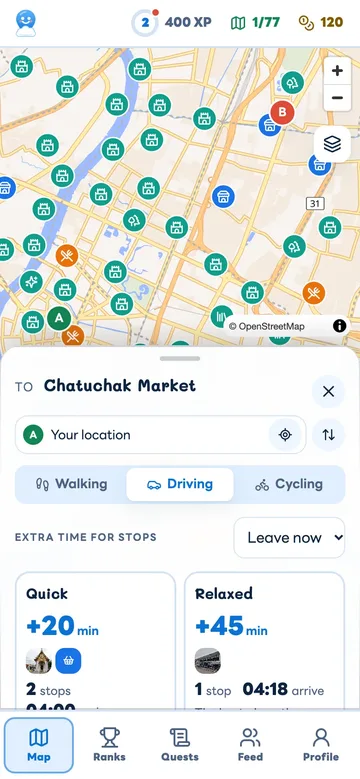
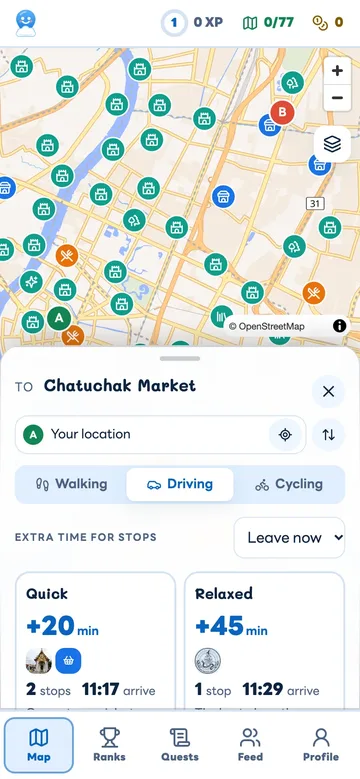
fix: consumer round 2 (planner usual hours, night hint, photo URLs, layout, demo city)
- plan-route: places without listed hours get the usual hours for their kind, so a night plan
  doesn't send people to temples at 04:00; traveller/owner photo paths become full URLs and
  hidden photos are skipped
- local_spotlight skips hidden photos (079); the feed resolves storage paths via photoSrc
- Choose: 'most places are closed at this hour' hint with Leave at 08:00
- mobile sheet pulled full covers the map buttons; landing bar goes solid on scroll
- odds table fits 390 px; stat labels left-aligned; shop set tiles show kind and fit PASSPORT
- demo mode remembers its city: 'my location' never jumps 500 km to real GPS
- Thumb falls back to the kind icon when a photo fails; stop names get two lines
- README: partner pricing, demo-screens note, opening-hours wording; landing hero reshot at daytime

diff --git a/web/src/styles/app.css b/web/src/styles/app.css
@@ -563,7 +563,7 @@ table.stats th, table.stats td { padding: 6px 8px; border-bottom: 1px solid var(
 .nav-eta b { font: 800 var(--fs-display)/var(--lh-display) var(--font-data); color: var(--good); }
 .nav-bottom .row { justify-content: space-between; }
 .nav-bottom .icon-btn.on { background: var(--brand-soft); }
-.nav-bottom .nav-avoid { justify-content: flex-start; gap: 14px; }
+.nav-bottom .nav-avoid { justify-content: flex-start; gap: 6px; }
 .nav-me { width: 22px; height: 22px; border-radius: 50%; background: #2f7bf5; border: 4px solid #fff; box-shadow: 0 0 0 8px rgb(47 123 245 / .25); }
 
 /* ---------- map layers (night map, offline maps) ---------- */
@@ -585,7 +585,7 @@ table.stats th, table.stats td { padding: 6px 8px; border-bottom: 1px solid var(
   .sheet { position: absolute; left: 0; right: 0; bottom: 0; margin: 0; border-radius: 22px 22px 0 0; box-shadow: 0 -8px 28px rgb(0 0 0 / .18);
     transition: height .28s cubic-bezier(.2, .8, .2, 1); height: 30%; }
   .sheet.snap-half { height: 55%; }
-  .sheet.snap-full { height: 92%; }
+  .sheet.snap-full { height: 92%; z-index: 7; }   /* pulled up, it covers the map's buttons and banners instead of sitting under them */
   .sheet.dragging { transition: none; }
   .sheet-grab { touch-action: none; padding-top: 6px; padding-inline: 16px; cursor: grab; }
   .sheet-handle { display: block; justify-self: center; width: 44px; height: 18px; border: 0; padding: 0; background: none; position: relative; }
@@ -841,6 +841,9 @@ img.thumb, span.thumb { flex: none; border-radius: 10px; object-fit: cover; disp
 .set-items { list-style: none; margin: 0; padding: 0; display: grid; grid-template-columns: repeat(5, minmax(0, 1fr)); gap: 8px; }
 .set-items button { display: grid; gap: 4px; width: 100%; padding: 6px; border-radius: 12px; border: 0; background: rgb(255 255 255 / .9); color: #0e2440; font-size: var(--fs-micro); font-weight: 700; text-align: center; }
 .set-items .preview { height: 48px; }
+.set-items .preview.title-chip span { font-size: var(--fs-caption); line-height: 1.15; padding-inline: 4px; }   /* "Full-moon wanderer" fits the 48 px tile */
+.set-items .preview.cover-prev .cover-title { font-size: var(--fs-micro); letter-spacing: .06em; }   /* "PASSPORT" fits a 3-up phone tile */
+.set-items .tile-kind { letter-spacing: .03em; color: #4a5a72; }   /* tile is always light, in dark mode too */
 .set-buy { align-items: center; } .set-buy b { display: inline-flex; align-items: center; gap: 3px; font-size: var(--fs-headline); }
 .set-list { display: grid; gap: 10px; }
 .try-backdrop { z-index: 110; }
@@ -912,7 +915,7 @@ img.thumb, span.thumb { flex: none; border-radius: 10px; object-fit: cover; disp
 /* icon + number lead (title size) in the stat's colour, the same colours as the top bar; the label sits small in the top corner */
 .stat-strip b { display: inline-flex; align-items: center; gap: 6px; font: 800 var(--fs-title)/var(--lh-title) var(--font-data); color: var(--c); }
 .stat-strip b svg { flex: none; } .stat-strip b small { margin-left: -5px; align-self: flex-end; padding-bottom: 3px; }
-.stat-strip li > span:last-child { order: -1; justify-self: end; }
+.stat-strip li > span:last-child { order: -1; }   /* label above the number, both left-aligned */
 .stat-strip small { font-size: var(--fs-caption); font-weight: 700; color: var(--ink-2); }
 .stat-strip span { display: inline-flex; align-items: center; gap: 5px; font-size: var(--fs-caption); font-weight: 700; color: var(--ink-2); }
 .stat-strip .s-xp { --c: var(--brand); } .stat-strip .s-provinces { --c: var(--good); } .stat-strip .s-stamps { --c: var(--stamp); }
@@ -1387,10 +1390,19 @@ input[type="file"]::file-selector-button { font: 700 var(--fs-label)/1 var(--fon
 /* visual QA round (tester C) */
 .avatar.c-marigold { color: #2a1d00; }   /* a white letter on gold was 2.2:1 */
 .level-rewards > .btn.big { position: sticky; bottom: 0; box-shadow: 0 4px 0 var(--brand-edge), 0 -10px 18px 6px var(--card); }   /* the pick stays reachable on small phones */
-.odds { overflow-x: auto; } .odds table { min-width: 440px; }   /* the prize column doesn't shrink to one word per line on 320 px */
+.odds { overflow-x: auto; } .odds table { min-width: 300px; }   /* fits a 390 px phone; scrolls only below that, so the prize column never shrinks to one word per line */
 input[type="file"] { width: 100%; }
 .row.between > .eyebrow { margin: 0; }
 .shop-grid li.locked .tile-try { opacity: .6; filter: grayscale(.5); }
 :root[data-theme="dark"] .maplibregl-ctrl-attrib-button { filter: invert(1); }
 html.native .book-close { top: calc(14px + env(safe-area-inset-top, 0px)); }
 html.native .toast { top: calc(64px + env(safe-area-inset-top, 0px)); }
+
+/* navigation's Avoid tolls / highways / ferries: chips, not bare form checkboxes */
+.nav-avoid { gap: 6px; flex-wrap: wrap; }
+.nav-avoid .toggle { display: inline-flex; align-items: center; gap: 6px; border: 1px solid var(--line); background: var(--card); padding: 6px 12px;
+  border-radius: 10px; font-size: var(--fs-label); font-weight: 700; cursor: pointer; }
+.nav-avoid .toggle input { margin: 0; }
+.nav-avoid .toggle:has(input:checked) { border-color: var(--brand); background: var(--brand-soft); color: var(--brand); }
+/* a plan's stop names get two lines: "Sakon Nakhon Walking Street, Saturday & Sunday Nights" kept its "nights" cut off */
+.stop-rows .stop-text > b { white-space: normal; display: -webkit-box; -webkit-line-clamp: 2; -webkit-box-orient: vertical; overflow-wrap: anywhere; }

diff --git a/web/src/lib/demoGps.ts b/web/src/lib/demoGps.ts
@@ -3,7 +3,7 @@ import type { LatLng } from "./api";
 // Demo mode: the app's location is wherever you put it (directions' Demo button drives you to the next stop), so it can be
 // shown anywhere. It stands in for navigator.geolocation itself, so everything that reads the location (stops near
 // you, check-in, turn-by-turn) follows it without knowing. Check-ins made with it are marked demo on the server.
-const ON = "gm-demo", AT = "gm-demo-at";
+const ON = "gm-demo", AT = "gm-demo-at", HOME = "gm-demo-home";
 /** Demo-mode people have ids "demo-01".. and exist only on this device. */
 export const isDemoId = (id: string) => id.startsWith("demo-");
 export const SAKON: LatLng = { lat: 17.163, lng: 104.149 };   // Sakon Nakhon: the default map centre
@@ -12,6 +12,7 @@ const write = (k: string, v: unknown) => { try { localStorage.setItem(k, JSON.st
 
 let on = read<boolean>(ON, false);
 let at = read<LatLng>(AT, SAKON);
+let home = read<LatLng>(HOME, SAKON);   // the demo's city: where "my location" goes back to when you aren't really there
 const watchers = new Map<number, PositionCallback>();
 const listeners = new Set<() => void>();
 let nextId = 1e6;   // clear of the real watch ids
@@ -33,6 +34,14 @@ export function setDemo(value: boolean) {
   if (!value) try { localStorage.removeItem("gm-demo-bar-hidden"); } catch { /* nothing to show again */ }   // next time demo mode is on, its note shows again
   changed();
 }
+export const BANGKOK: LatLng = { lat: 13.7563, lng: 100.5018 };
+/** Demo mode in Bangkok, where the pretend community is (the welcome sheet and Settings). Reload after: read at start-up. */
+export function startDemo() {
+  home = BANGKOK; write(HOME, BANGKOK);
+  moveTo(BANGKOK);
+  setDemo(true);
+}
+
 /** Move yourself there; everything watching the location gets a fix straight away. */
 export function moveTo(p: LatLng) {
   at = p; write(AT, p);
@@ -41,13 +50,21 @@ export function moveTo(p: LatLng) {
   changed();
 }
 
+// rough km, plenty for "is it the same city"
+const km = (a: LatLng, b: LatLng) => Math.hypot(a.lat - b.lat, (a.lng - b.lng) * Math.cos(a.lat * Math.PI / 180)) * 111;
+
 /**
- * "Use my location" (a trip's start): in demo mode the demo position first goes back to where you really are, so a new
- * trip starts from you, not from wherever the last demo drive ended. No real fix (blocked, desktop): the demo spot stays.
+ * "Use my location" (a trip's start): in demo mode a new trip starts from you, not from wherever the last demo drive
+ * ended. "You" is where you really are when that's in the demo's city, else the demo's city itself: demoing Bangkok from
+ * Sakon Nakhon used to start every trip 500 km away. No real fix (blocked, desktop): the demo spot stays.
  */
 export function myLocation(ok: PositionCallback, fail: PositionErrorCallback, opts?: PositionOptions) {
   if (!on || !realGet) return navigator.geolocation.getCurrentPosition(ok, fail, opts);
-  realGet((p) => { moveTo({ lat: p.coords.latitude, lng: p.coords.longitude }); ok(position()); }, () => ok(position()), opts);
+  realGet((p) => {
+    const real = { lat: p.coords.latitude, lng: p.coords.longitude };
+    moveTo(km(real, home) < 60 ? real : home);
+    ok(position());
+  }, () => ok(position()), opts);
 }
 
 /** Swap navigator.geolocation for the demo location while demo mode is on (once, at start-up). */

diff --git a/supabase/functions/plan-route/index.ts b/supabase/functions/plan-route/index.ts
@@ -1,3 +1,4 @@
+import { usualHours } from "../_shared/usual-hours.ts";
 import { admin, HttpError, json, num, readJson, requireUser, serve, thaiPoint } from "../_shared/http.ts";
 import { type Meal, MEAL_WINDOWS } from "../_shared/meals.ts";
 import { insertBest, insertionCost, type Plan, planDetour, type Stop } from "../_shared/planner.ts";
@@ -215,21 +216,28 @@ serve(async (req) => {
   }
   const routing = baseline ? "valhalla" : "estimate";
 
-  // one photo per place for the cards (Wikimedia or the owner's), first one wins
+  // one photo per place for the cards (Wikimedia, the owner's or a traveller's; never a hidden one), first one wins
   const photoOf = new Map<number, string>();
   if (candidates.length) {
-    const { data: photos, error: phErr } = await db.from("place_photos").select("place_id, url, source").in("place_id", candidates.map((c) => c.id)).order("id");
+    const { data: photos, error: phErr } = await db.from("place_photos").select("place_id, url").in("place_id", candidates.map((c) => c.id))
+      .eq("hidden", false).order("id");
     if (phErr) console.error("photos failed", phErr);
-    // owner photos are storage paths in the public shop-photos bucket; Wikimedia ones are full URLs
+    // Wikimedia ones are full URLs; owner and traveller photos are "<bucket>/<path>" in the public shop-photos and
+    // place-photos buckets (a traveller's path used to go out as-is: a broken image on the stop card)
     const storage = `${Deno.env.get("SUPABASE_URL")}/storage/v1/object/public/`;
-    for (const ph of (photos ?? []) as { place_id: number; url: string; source: string }[]) {
-      if (!photoOf.has(ph.place_id)) photoOf.set(ph.place_id, ph.source === "owner" ? storage + ph.url : ph.url);
+    for (const ph of (photos ?? []) as { place_id: number; url: string }[]) {
+      if (!photoOf.has(ph.place_id)) photoOf.set(ph.place_id, /^https?:\/\//.test(ph.url) ? ph.url : storage + ph.url);
     }
   }
 
+  // places without known hours get their kind's usual hours (a night plan used to visit temples at 04:00)
+  const hoursOf = (c: { category: string; name: string; open_min: number | null; close_min: number | null }) => {
+    const [openMin, closeMin] = usualHours(c.category, c.name, c.open_min, c.close_min);
+    return { openMin, closeMin };
+  };
   const allStops: Stop[] = candidates.map((c, i) => ({
     idx: i + 2, id: c.id, category: c.category, rating: c.rating == null ? null : Number(c.rating), tier: c.tier ?? 2, dwellMin: dwellOf(c.dwell_min),
-    openMin: c.open_min, closeMin: c.close_min, frac: c.frac, local: c.local, otop: c.otop, community: c.community,
+    ...hoursOf(c), frac: c.frac, local: c.local, otop: c.otop, community: c.community,
   }));
   const stops = allStops.filter((st) => !pitIds.has(st.id)), pitStops = allStops.filter((st) => pitIds.has(st.id));
   const travelMin = (a: number, b: number) => matrix[a][b];

diff --git a/web/src/app/Feed.tsx b/web/src/app/Feed.tsx
@@ -1,7 +1,7 @@
 import { useEffect, useMemo, useRef, useState } from "react";
 import { Award, Bell, MessageCircle, Share2, Trash2, Trophy, Zap } from "lucide-react";
 import { errCode } from "../lib/supabase";
-import { addComment, type Card, type Comment, deleteComment, type FeedItem, getComments, getFeed, getSocial, getSpotlight, photoUrls,
+import { addComment, type Card, type Comment, deleteComment, type FeedItem, getComments, getFeed, getSocial, getSpotlight, photoSrc, photoUrls,
   type LatLng, type Profile, react, type Reaction, type Spotlight } from "../lib/api";
 import Avatar from "./social/Avatar";
 import ProvinceStamp from "./passport/ProvinceStamp";
@@ -209,7 +209,7 @@ export default function Feed({ profile, refreshKey, openFriend, goProfile, openP
           <Avatar name={f.nickname} colour={f.colour} avatar={f.avatar} size={56} /><span>{f.nickname}</span></button></li>)}
       </ul>
       {spot && <button type="button" className="spotlight" onClick={() => openPlace(spot.id)}>
-        {spot.photo ? <img src={spot.photo} alt="" /> : <span className="spotlight-ph" aria-hidden>★</span>}
+        {spot.photo ? <img src={photoSrc(spot.photo)} alt="" /> : <span className="spotlight-ph" aria-hidden>★</span>}
         <span className="person-main"><span className="eyebrow">Local spotlight{spot.province ? ` · ${spot.province}` : ""}</span>
           <b>{spot.name}</b><span className="fine">{spot.otop ? "OTOP producer" : "Community enterprise"}{spot.visits ? ` · ${spot.visits} visits this week` : ""}</span></span>
       </button>}

diff --git a/web/src/app/fortune/SiamSi.tsx b/web/src/app/fortune/SiamSi.tsx
@@ -1,6 +1,6 @@
 import { useEffect, useState } from "react";
 import { ShoppingBag, Sparkles } from "lucide-react";
-import { getShop, type PastShake, type Profile, shakeHistory } from "../../lib/api";
+import { getShop, type PastShake, type Profile, REVIEW_SHAKE_CHARS, shakeHistory } from "../../lib/api";
 import Fortune, { OddsTable, prizeText, RARITY } from "./Fortune";
 import { SkelRows } from "../Skeleton";
 import Info from "../Info";
@@ -23,8 +23,8 @@ export default function SiamSi({ profile, onChange, onShop }: { profile: Profile
     <section className="siam-si glass" aria-labelledby="siamsi-title">
       <div className="row between">
         <h3 id="siamsi-title"><Sparkles size={18} aria-hidden /> Siam Si <span className="fine" lang="th">เซียมซี</span>
-          <Info label="About Siam Si">Every new place you check in at gives a shake. Quests, new provinces, riding along and writing a review give
-            bonus shakes (keep up to 5).</Info></h3>
+          <Info label="About Siam Si">Every new place you check in at gives a shake. Quests, new provinces, riding along and a review of a
+            place you visited ({REVIEW_SHAKE_CHARS}+ characters) give bonus shakes (keep up to 5).</Info></h3>
         <button type="button" className="btn gold small" disabled={!tickets} onClick={() => setOpen(pending[0]?.checkin ?? true)}>
           {tickets ? `Shake · ${tickets}` : "No shakes"}</button>
       </div>

diff --git a/supabase/functions/_shared/usual-hours.ts b/supabase/functions/_shared/usual-hours.ts
@@ -1,0 +1,16 @@
+// Opening hours for a place OpenStreetMap gives none for (most temples, parks and markets here): the usual hours for its
+// kind, so a plan made at night doesn't send people to a temple at 04:00 or a weekend-night walking street at dawn.
+// Known hours always win. Minutes after midnight; close < open means it closes after midnight.
+// ponytail: one window per kind, no weekdays; a walking street open only at weekends still shows on a Tuesday evening.
+const NIGHT_MARKET = /night|walking street|ถนนคนเดิน|ตลาดโต้รุ่ง|ตลาดกลางคืน|ไนท์/i;
+const USUAL: Record<string, [number, number]> = {
+  temple: [6 * 60, 18 * 60], museum: [9 * 60, 16 * 60 + 30], art: [10 * 60, 18 * 60], park: [5 * 60, 20 * 60],
+  viewpoint: [5 * 60, 20 * 60], craft: [9 * 60, 18 * 60], shop: [9 * 60, 20 * 60], market: [6 * 60, 18 * 60],
+  food: [7 * 60, 21 * 60], cafe: [8 * 60, 18 * 60],
+};
+
+export function usualHours(category: string, name: string, open: number | null, close: number | null): [number | null, number | null] {
+  if (open != null && close != null) return [open, close];
+  if (NIGHT_MARKET.test(name)) return [17 * 60, 23 * 60];
+  return USUAL[category] ?? [null, null];   // stays, fuel, convenience stores...: treated as always open
+}

diff --git a/web/src/app/Settings.tsx b/web/src/app/Settings.tsx
@@ -4,7 +4,7 @@ import { callFn, ensureSession, supabase } from "../lib/supabase";
 import { type Booking, cancelBooking, getMonthlyStamps, myBookings, PRICES, type Profile } from "../lib/api";
 import { isNative, purchase, purchaseErrorText, restorePurchases } from "../lib/native";
 import { isGuest, useUser } from "../lib/auth";
-import { demoOn, setDemo } from "../lib/demoGps";
+import { demoOn, setDemo, startDemo } from "../lib/demoGps";
 import { setSound, soundOn } from "../lib/sfx";
 import { type Appearance, setAppearance, useAppearance } from "../lib/theme";
 import Avatar from "./social/Avatar";
@@ -139,7 +139,7 @@ export default function Settings({ refreshKey, profile, onChange, onClose }: {
             directions, then the Demo button drives you to each stop. Check-ins still count, marked as demo, and never on the leaderboard.
             Other travellers, reviews and partners you see are pretend.</Info></>}>
             <input type="checkbox" role="switch" className="switch" checked={demoOn()} aria-label="Demo mode"
-              onChange={(e) => { setDemo(e.target.checked); location.reload(); }} />
+              onChange={(e) => { if (e.target.checked) startDemo(); else setDemo(false); location.reload(); }} />
           </Row>
         </Group>
 

diff --git a/marketing/hype/compositions/endcard.html b/marketing/hype/compositions/endcard.html
@@ -45,7 +45,8 @@
     tl.fromTo("#end-pin", { scaleY: 1, scaleX: 1 }, { scaleY: 0.86, scaleX: 1.08, duration: 0.07, ease: "power2.out", transformOrigin: "50% 90%" }, 0.38);
     tl.to("#end-pin", { scaleY: 1, scaleX: 1, duration: 0.35, ease: "elastic.out(1, 0.5)" }, 0.45);
     // then the name wipes in under the landing, and the line and the address follow; all hold to the end
-    tl.fromTo("#end-word", { clipPath: "inset(0 100% 0 0)" }, { clipPath: "inset(0 0% 0 0)", duration: 0.3, ease: "power3.out" }, 0.4);
+    // negative top and bottom insets: Mali's "g" tails hang below the line box and a 0 inset cut them off
+    tl.fromTo("#end-word", { clipPath: "inset(-30% 100% -40% 0)" }, { clipPath: "inset(-30% 0% -40% 0)", duration: 0.3, ease: "power3.out" }, 0.4);
     tl.fromTo("#end-tag", { opacity: 0, filter: "blur(8px)" }, { opacity: 1, filter: "blur(0px)", duration: 0.16, ease: "power4.out" }, 0.5);
     tl.fromTo("#end-url", { opacity: 0, y: 20 }, { opacity: 1, y: 0, duration: 0.3, ease: "back.out(1.6)" }, 0.5);
     window.__timelines["endcard"] = tl;

diff --git a/web/src/app/DemoWelcome.tsx b/web/src/app/DemoWelcome.tsx
@@ -1,10 +1,9 @@
 import { useState } from "react";
 import { Sparkles } from "lucide-react";
-import { demoOn, setDemo } from "../lib/demoGps";
+import { demoOn, startDemo } from "../lib/demoGps";
 import { useDialog } from "../lib/useDialog";
 
-const WELCOMED = "gm-demo-welcomed", AT = "gm-demo-at";
-const BANGKOK = { lat: 13.7563, lng: 100.5018 };
+const WELCOMED = "gm-demo-welcomed";
 
 // private mode or blocked storage: the sheet may show again next visit, which is harmless
 const get = (k: string) => { try { return localStorage.getItem(k); } catch { return null; } };
@@ -21,8 +20,7 @@ function WelcomeSheet({ onClose }: { onClose: () => void }) {
   const box = useDialog(onClose);
   const start = () => {
     put(WELCOMED, "1");
-    put(AT, JSON.stringify(BANGKOK));
-    setDemo(true);
+    startDemo();
     location.reload();   // demo state is read at start-up
   };
   return (

diff --git a/web/src/app/detour/Choose.tsx b/web/src/app/detour/Choose.tsx
@@ -84,6 +84,11 @@ export default function Choose({ d, onPicked }: { d: Detour; onPicked: () => voi
           {d.prefs.depart === "custom" && <input type="time" aria-label="Departure time" value={d.prefs.time} onChange={(e) => d.set({ time: e.target.value })} />}
         </span>
       </div>
+      {/* temples, markets and viewpoints keep day hours: a plan made at night has little or nothing open */}
+      {(startMin(d.prefs) >= 21 * 60 || startMin(d.prefs) < 6 * 60) && (
+        <p className="fine night-hint">Most places are closed at this hour.{" "}
+          <button type="button" className="link" onClick={() => d.set({ depart: "custom", time: "08:00" })}>Leave at 08:00 instead</button></p>
+      )}
       {Object.values(d.results).some((r) => r === "loading") && <PlanProgress />}
       <div className="presets">
         {PRESETS.map((p) => card(p.id, p.label, p.min, p.blurb))}

diff --git a/web/src/app/detour/Results.tsx b/web/src/app/detour/Results.tsx
@@ -20,8 +20,9 @@ const TIER_TIP = { partner: "A verified shop that pays Giggles Maps monthly. Mem
 /** A place's photo, or its kind icon on its group colour. */
 export function Thumb({ s, size = 48 }: { s: { name: string; category: string; photo?: string | null }; size?: number }) {
   const k = kindOf(null, s.category);
-  return s.photo
-    ? <img className="thumb" src={s.photo} alt="" width={size} height={size} loading="lazy" />
+  const [broken, setBroken] = useState<string | null>(null);   // a photo that didn't load (moved, removed) shows the kind icon
+  return s.photo && s.photo !== broken
+    ? <img className="thumb" src={s.photo} alt="" width={size} height={size} loading="lazy" onError={() => setBroken(s.photo!)} />
     : <span className="thumb" style={{ width: size, height: size, background: GROUPS[k.group].colour }}><k.icon size={size * 0.45} aria-hidden /></span>;
 }
 

diff --git a/web/src/app/passport/Shop.tsx b/web/src/app/passport/Shop.tsx
@@ -248,7 +248,7 @@ function SetCard({ s, hero = false, byKey, profile, coins, onBuy, onTry }: {
         <p className="fine">{s.blurb_en}</p>
       </div>
       <ul className="set-items">{list.map((i) => <li key={key(i)}><button type="button" onClick={() => onTry(i)} aria-label={`Try on ${i.name_en}`}>
-        <Preview item={i} profile={profile} /><span>{i.name_en}</span></button></li>)}</ul>
+        <Preview item={i} profile={profile} /><span>{i.name_en}</span><span className="tile-kind">{KIND_NAME[i.kind]}</span></button></li>)}</ul>
       <div className="row between set-buy">
         {owned ? <span className="chip on"><Check size={13} aria-hidden /> All yours</span> : <span className="num">
           {s.price < s.full && <s className="fine">{s.full}</s>} <b><Coins size={15} aria-hidden /> {s.price}</b>
